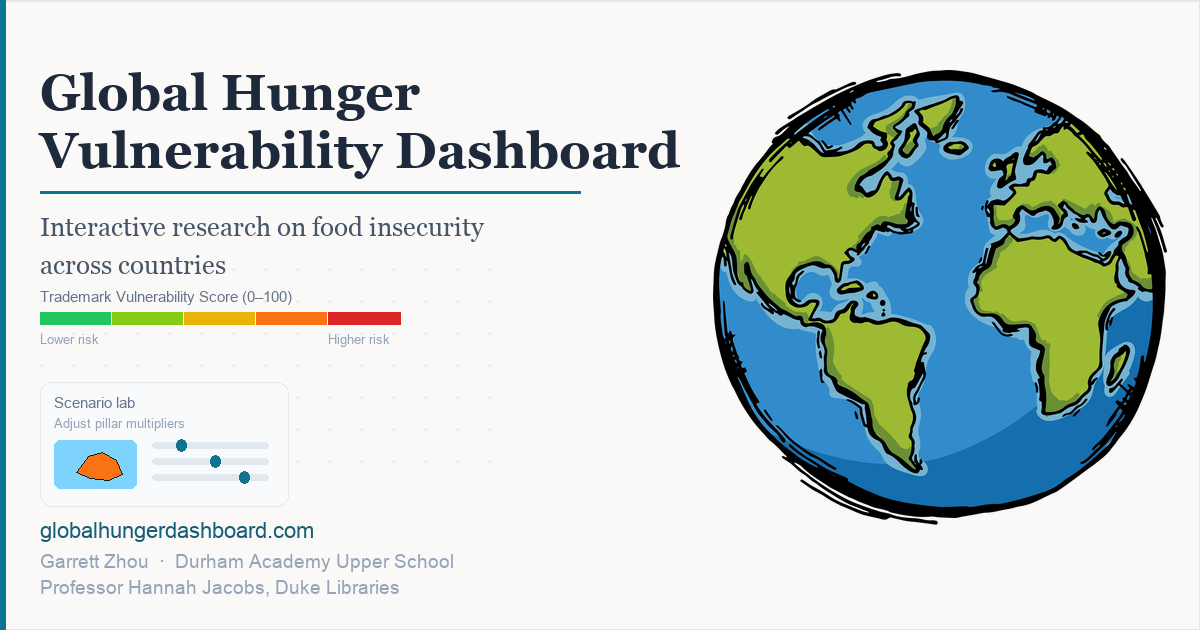
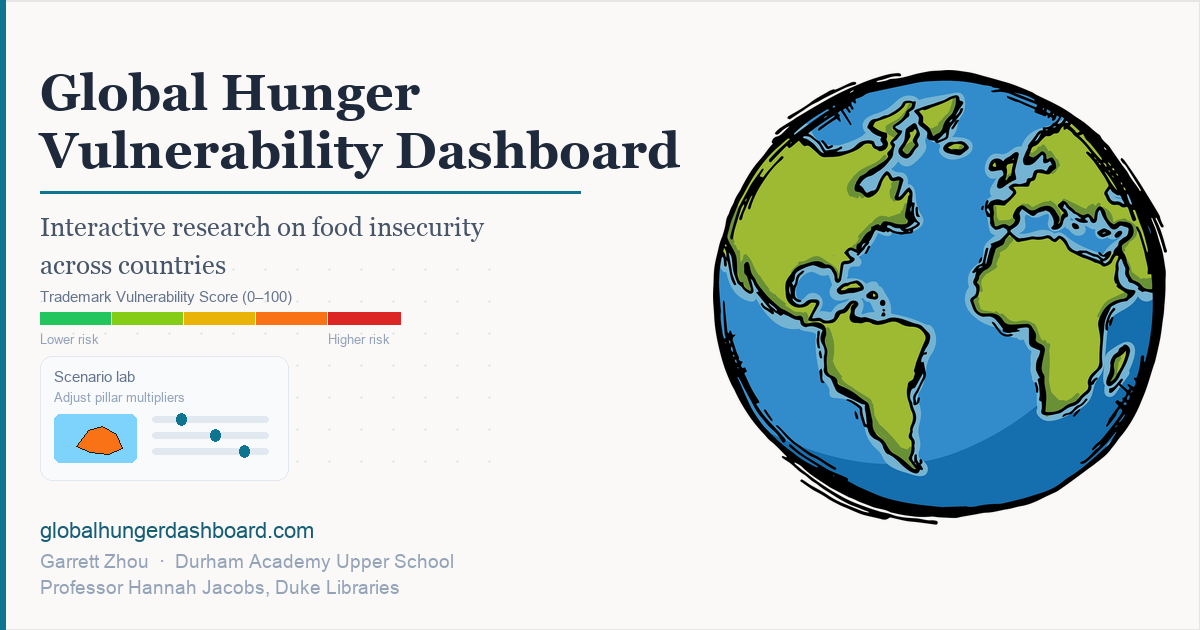
Move scenario lab card higher on OG social preview.

diff --git a/www/landing.html b/www/landing.html
@@ -12,7 +12,7 @@
   <meta property="og:url" content="https://globalhungerdashboard.com/assets/landing.html">
   <meta property="og:title" content="Global Hunger Vulnerability Dashboard">
   <meta property="og:description" content="Interactive global hunger vulnerability map with country profiles, undernourishment data, and climate risk indicators.">
-  <meta property="og:image" content="https://globalhungerdashboard.com/assets/og-social-preview.png?v=9">
+  <meta property="og:image" content="https://globalhungerdashboard.com/assets/og-social-preview.png?v=10">
   <meta property="og:image:width" content="1200">
   <meta property="og:image:height" content="630">
   <meta property="og:image:alt" content="Global Hunger Vulnerability Dashboard — interactive food security map and country profiles">
@@ -21,7 +21,7 @@
   <meta name="twitter:card" content="summary_large_image">
   <meta name="twitter:title" content="Global Hunger Vulnerability Dashboard">
   <meta name="twitter:description" content="Interactive global hunger vulnerability map with country profiles and food security indicators.">
-  <meta name="twitter:image" content="https://globalhungerdashboard.com/assets/og-social-preview.png?v=9">
+  <meta name="twitter:image" content="https://globalhungerdashboard.com/assets/og-social-preview.png?v=10">
 
   <script type="application/ld+json">
   {

diff --git a/scripts/generate_og_preview.py b/scripts/generate_og_preview.py
@@ -156,7 +156,7 @@ def main():
     )
 
     draw_vulnerability_bar(draw, title_x, title_y + 248, width=360, label_font=meta_label_font, small_font=meta_small_font)
-    draw_scenario_lab_card(draw, x=title_x, y=title_y + 318, label_font=meta_label_font, small_font=meta_small_font)
+    draw_scenario_lab_card(draw, x=title_x, y=title_y + 292, label_font=meta_label_font, small_font=meta_small_font)
 
     draw.text((MARGIN_LEFT, 518), "globalhungerdashboard.com", font=url_font, fill=ACCENT_DARK)
     draw.text(
